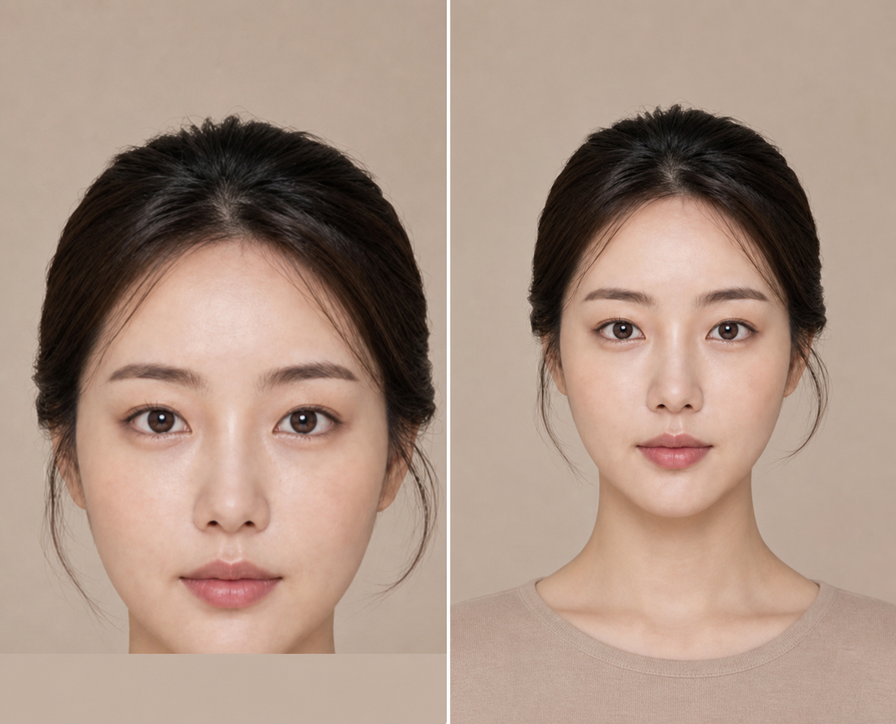
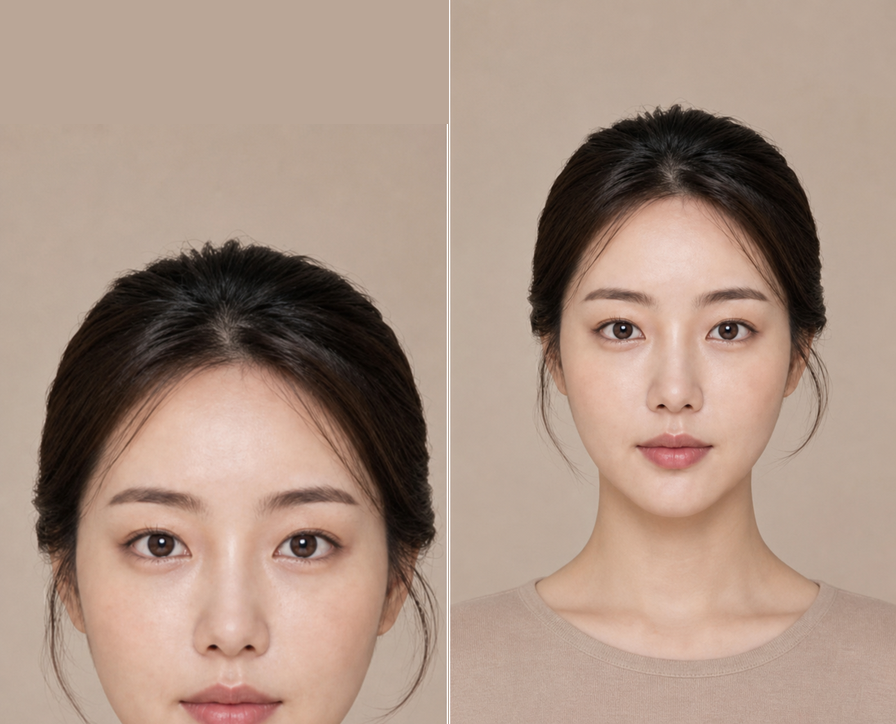
feat(face-analysis): 인트로 몰입형 리디자인 및 히어로·가이드 이미지 개선
- 인트로: 촬영 체크리스트 제거 → 풀블리드 히어로 + `얼굴 분석 시작`/`촬영 가이드` 버튼
- 촬영 튜토리얼을 필수 단계에서 선택(촬영 가이드)으로 강등, 카메라 실시간 코칭 중심 흐름
- 히어로 이미지: 얼굴 중앙 정렬 구도 + 페이스 메시(랜드마크) 오버레이로 얼굴 분석 무드
- 촬영 가이드 "턱끝까지" 예시: 하단 블록 제거, 입술 라인에서 턱만 자연스럽게 잘리는 구도
- 촬영 소요시간 안내 문구 10초 → 40초
- 관련 라우트/테스트 업데이트

Changed region(s): [[0.0312, 0.1519, 0.5, 1.0], [0.4375, 0.942, 0.4688, 0.9724]]

diff --git a/apps/mobile/src/features/face-analysis/screens/FaceAnalysisIntroScreen.tsx b/apps/mobile/src/features/face-analysis/screens/FaceAnalysisIntroScreen.tsx
@@ -1,6 +1,7 @@
 import React from 'react';
 import {ImageBackground, Pressable, StyleSheet} from 'react-native';
-import {Text, View, XStack, YStack} from 'tamagui';
+import {LinearGradient} from 'expo-linear-gradient';
+import {Text, YStack} from 'tamagui';
 
 import {colors, radius, shadows, spacing, typography} from '../../../shared/theme';
 import {AppScreen} from '../../../shared/ui';
@@ -11,15 +12,17 @@ import {
 import {FACE_ANALYSIS_CAPTURE_CHECKLIST} from '../services/faceAnalysisCaptureChecklist';
 
 type FaceAnalysisIntroScreenProps = {
-  onStartAnalysisGuide?: () => void;
+  onStartAnalysis?: () => void;
+  onOpenCaptureTips?: () => void;
 };
 
 const faceAnalysisHeroImage = require('../../../assets/images/face-analysis-intro.png');
 
 const faceAnalysisIntroContent = {
-  title: '맞춤 스타일링을 위한\n얼굴 분석',
+  title: '맞춤 스타일링 얼굴 분석',
   captureDuration: FACE_ANALYSIS_CAPTURE_DURATION_COPY,
-  primaryActionLabel: '촬영 가이드 보기',
+  primaryActionLabel: '얼굴 분석 시작',
+  captureGuideLabel: '촬영 가이드',
 } as const;
 
 
@@ -36,7 +39,8 @@ export function getFaceAnalysisCapturePlanTitles() {
 }
 
 export function FaceAnalysisIntroScreen({
-  onStartAnalysisGuide,
+  onStartAnalysis,
+  onOpenCaptureTips,
 }: FaceAnalysisIntroScreenProps) {
   return (
     <AppScreen
@@ -46,193 +50,143 @@ export function FaceAnalysisIntroScreen({
       topPadding="belowShellHeader">
       <ImageBackground
         imageStyle={styles.heroImage}
-        resizeMode="contain"
+        resizeMode="cover"
         source={faceAnalysisHeroImage}
         style={styles.hero}>
-        <YStack style={styles.heroCopy}>
-          <Text style={styles.title}>{faceAnalysisIntroContent.title}</Text>
-        </YStack>
+        <LinearGradient
+          colors={['rgba(17, 17, 17, 0)', 'rgba(17, 17, 17, 0.45)', 'rgba(17, 17, 17, 0.9)']}
+          locations={[0, 0.46, 1]}
+          pointerEvents="none"
+          style={styles.heroScrim}
+        />
+        <YStack style={styles.heroContent}>
+          <Text
+            adjustsFontSizeToFit
+            minimumFontScale={0.7}
+            numberOfLines={1}
+            style={styles.title}>
+            {faceAnalysisIntroContent.title}
+          </Text>
+          <Text
+            adjustsFontSizeToFit
+            minimumFontScale={0.5}
+            numberOfLines={1}
+            style={styles.heroCaption}>
+            <Text style={styles.heroCaptionStrong}>1회 촬영</Text>
+            {`   ·   ${faceAnalysisIntroContent.captureDuration}`}
+          </Text>
 
-        <XStack style={styles.heroMeta}>
-          <Text style={styles.heroMetaLabel}>1회 촬영</Text>
-          <View style={styles.heroMetaDivider} />
-          <Text style={styles.heroMetaValue}>{faceAnalysisIntroContent.captureDuration}</Text>
-        </XStack>
+          <Pressable
+            accessibilityLabel={faceAnalysisIntroContent.primaryActionLabel}
+            accessibilityRole="button"
+            onPress={onStartAnalysis}
+            style={({pressed}) => [styles.primaryButton, pressed && styles.pressed]}>
+            <Text style={styles.primaryButtonText}>
+              {faceAnalysisIntroContent.primaryActionLabel}
+            </Text>
+          </Pressable>
+
+          <Pressable
+            accessibilityLabel={faceAnalysisIntroContent.captureGuideLabel}
+            accessibilityRole="button"
+            onPress={onOpenCaptureTips}
+            style={({pressed}) => [styles.secondaryButton, pressed && styles.pressed]}>
+            <Text style={styles.secondaryButtonText}>
+              {faceAnalysisIntroContent.captureGuideLabel}
+            </Text>
+          </Pressable>
+        </YStack>
       </ImageBackground>
-
-      <YStack style={styles.content}>
-        <YStack style={styles.checkHeader}>
-          <Text style={styles.sectionEyebrow}>READY</Text>
-          <Text style={styles.sectionTitle}>촬영 전 체크리스트</Text>
-        </YStack>
-
-        <YStack style={styles.checkList}>
-          {FACE_ANALYSIS_CAPTURE_CHECKLIST.map((step, index) => (
-            <XStack key={step.id} style={styles.checkRow}>
-              <Text style={styles.checkIndex}>{String(index + 1).padStart(2, '0')}</Text>
-              <YStack style={styles.checkCopy}>
-                <Text style={styles.checkTitle}>{step.title}</Text>
-                <Text style={styles.checkDescription}>{step.description}</Text>
-              </YStack>
-            </XStack>
-          ))}
-        </YStack>
-      </YStack>
-
-      <View style={styles.footerSpacer} />
-
-      <Pressable
-        accessibilityLabel={faceAnalysisIntroContent.primaryActionLabel}
-        accessibilityRole="button"
-        onPress={onStartAnalysisGuide}
-        style={({pressed}) => [styles.primaryButton, pressed && styles.pressed]}>
-        <Text style={styles.primaryButtonText}>
-          {faceAnalysisIntroContent.primaryActionLabel}
-        </Text>
-      </Pressable>
     </AppScreen>
   );
 }
 
 const styles = StyleSheet.create({
-  checkCopy: {
+  hero: {
+    borderRadius: 28,
     flex: 1,
-    gap: 4,
-    minWidth: 0,
+    justifyContent: 'flex-end',
+    minHeight: 480,
+    overflow: 'hidden',
   },
-  checkDescription: {
-    color: colors.textSecondary,
+  heroCaption: {
+    color: 'rgba(255, 255, 255, 0.82)',
     fontFamily: typography.fontFamily.medium,
     fontSize: typography.fontSize.sm,
     fontWeight: typography.fontWeight.medium,
     lineHeight: typography.lineHeight.sm,
   },
-  checkHeader: {
-    gap: spacing.xs,
-  },
-  checkIndex: {
-    color: colors.textTertiary,
+  heroCaptionStrong: {
+    color: colors.white,
     fontFamily: typography.fontFamily.bold,
-    fontSize: typography.fontSize.sm,
     fontWeight: typography.fontWeight.bold,
-    letterSpacing: 0.8,
-    lineHeight: typography.lineHeight.sm,
-    width: 40,
   },
-  checkList: {
-    borderTopColor: colors.border,
-    borderTopWidth: 1,
-  },
-  checkRow: {
-    alignItems: 'flex-start',
-    borderBottomColor: colors.border,
-    borderBottomWidth: 1,
-    gap: spacing.md,
-    paddingVertical: spacing.lg,
-  },
-  checkTitle: {
-    color: colors.textPrimary,
-    fontFamily: typography.fontFamily.bold,
-    fontSize: typography.fontSize.lg,
-    fontWeight: typography.fontWeight.bold,
-    lineHeight: typography.lineHeight.lg,
-  },
-  content: {
-    gap: spacing.lg,
-    paddingHorizontal: spacing.screenX,
-  },
-  footerSpacer: {
-    flex: 1,
-  },
-  hero: {
-    borderRadius: 28,
-    height: 480,
-    justifyContent: 'space-between',
-    overflow: 'hidden',
-    paddingBottom: spacing.lg,
-    paddingHorizontal: spacing.screenX,
-    paddingTop: spacing.xl,
-  },
-  heroCopy: {
+  heroContent: {
     gap: spacing.sm,
+    paddingBottom: spacing.xl,
+    paddingHorizontal: spacing.screenX,
   },
   heroImage: {
     borderRadius: 28,
   },
-  heroMeta: {
-    alignItems: 'center',
-    alignSelf: 'flex-start',
-    backgroundColor: 'rgba(255, 255, 255, 0.78)',
-    borderColor: 'rgba(255, 255, 255, 0.92)',
-    borderRadius: radius.pill,
-    borderWidth: 1,
-    gap: spacing.sm,
-    paddingHorizontal: spacing.md,
-    paddingVertical: spacing.sm,
-  },
-  heroMetaDivider: {
-    backgroundColor: colors.border,
-    height: 14,
-    width: 1,
-  },
-  heroMetaLabel: {
-    color: colors.textPrimary,
-    fontFamily: typography.fontFamily.bold,
-    fontSize: typography.fontSize.xs,
-    fontWeight: typography.fontWeight.bold,
-    lineHeight: typography.lineHeight.xs,
-  },
-  heroMetaValue: {
-    color: colors.textSecondary,
-    fontFamily: typography.fontFamily.medium,
-    fontSize: typography.fontSize.xs,
-    fontWeight: typography.fontWeight.medium,
-    lineHeight: typography.lineHeight.xs,
+  heroScrim: {
+    bottom: 0,
+    left: 0,
+    position: 'absolute',
+    right: 0,
+    top: 0,
   },
   pressed: {
-    opacity: 0.78,
+    opacity: 0.85,
     transform: [{scale: 0.99}],
   },
   primaryButton: {
     alignItems: 'center',
-    backgroundColor: colors.blackSurface,
+    backgroundColor: colors.white,
     borderRadius: radius.pill,
     justifyContent: 'center',
-    minHeight: 58,
+    marginTop: spacing.md,
+    minHeight: 56,
     paddingHorizontal: spacing.xl,
     shadowColor: shadows.soft.shadowColor,
     shadowOffset: shadows.soft.shadowOffset,
-    shadowOpacity: 0.12,
+    shadowOpacity: 0.18,
     shadowRadius: shadows.soft.shadowRadius,
   },
   primaryButtonText: {
+    color: colors.blackSurface,
+    fontFamily: typography.fontFamily.bold,
+    fontSize: typography.fontSize.md,
+    fontWeight: typography.fontWeight.bold,
+    lineHeight: typography.lineHeight.md,
+  },
+  secondaryButton: {
+    alignItems: 'center',
+    backgroundColor: 'rgba(255, 255, 255, 0.12)',
+    borderColor: 'rgba(255, 255, 255, 0.75)',
+    borderRadius: radius.pill,
+    borderWidth: 1.5,
+    justifyContent: 'center',
+    marginTop: spacing.sm,
+    minHeight: 56,
+    paddingHorizontal: spacing.xl,
+  },
+  secondaryButtonText: {
     color: colors.white,
     fontFamily: typography.fontFamily.bold,
     fontSize: typography.fontSize.md,
     fontWeight: typography.fontWeight.bold,
     lineHeight: typography.lineHeight.md,
   },
-  sectionEyebrow: {
-    color: colors.textTertiary,
-    fontFamily: typography.fontFamily.bold,
-    fontSize: typography.fontSize.xs,
-    fontWeight: typography.fontWeight.bold,
-    letterSpacing: 1,
-    lineHeight: typography.lineHeight.xs,
-  },
-  sectionTitle: {
-    color: colors.textPrimary,
-    fontFamily: typography.fontFamily.bold,
-    fontSize: typography.fontSize.xl,
-    fontWeight: typography.fontWeight.bold,
-    lineHeight: typography.lineHeight.xl,
-  },
   title: {
-    color: colors.textPrimary,
+    color: colors.white,
     fontFamily: typography.fontFamily.bold,
     fontSize: 34,
     fontWeight: typography.fontWeight.bold,
     letterSpacing: -0.8,
     lineHeight: 40,
+    textShadowColor: 'rgba(0, 0, 0, 0.3)',
+    textShadowOffset: {width: 0, height: 1},
+    textShadowRadius: 12,
   },
 });

diff --git a/apps/mobile/src/features/face-analysis/screens/FaceAnalysisIntroScreen.test.tsx b/apps/mobile/src/features/face-analysis/screens/FaceAnalysisIntroScreen.test.tsx
@@ -14,11 +14,13 @@ function expectEqual<T>(actual: T, expected: T, label: string) {
 }
 
 const content = getFaceAnalysisIntroContent();
-const introTitle: '맞춤 스타일링을 위한\n얼굴 분석' = content.title;
-const primaryAction: '촬영 가이드 보기' = content.primaryActionLabel;
+const introTitle: '맞춤 스타일링 얼굴 분석' = content.title;
+const primaryAction: '얼굴 분석 시작' = content.primaryActionLabel;
+const captureGuide: '촬영 가이드' = content.captureGuideLabel;
 
-expectEqual(introTitle, '맞춤 스타일링을 위한\n얼굴 분석', 'face analysis intro title');
-expectEqual(primaryAction, '촬영 가이드 보기', 'face analysis intro primary action');
+expectEqual(introTitle, '맞춤 스타일링 얼굴 분석', 'face analysis intro title');
+expectEqual(primaryAction, '얼굴 분석 시작', 'face analysis intro primary action');
+expectEqual(captureGuide, '촬영 가이드', 'face analysis intro capture guide label');
 expectEqual(
   getFaceAnalysisCapturePlanTitles().join(','),
   '통합 얼굴 촬영',
@@ -26,7 +28,7 @@ expectEqual(
 );
 expectEqual(
   content.captureDuration,
-  '보통 10초 내외이며, 얼굴을 맞추는 시간에 따라 더 걸릴 수 있어요.',
+  '보통 40초 내외이며, 얼굴을 맞추는 시간에 따라 더 걸릴 수 있어요.',
   'face analysis capture duration',
 );
 expectEqual(
@@ -34,4 +36,7 @@ expectEqual(
   '밝고 고른 빛에서,이마가 보이게,양쪽 귀가 보이게,액세서리 없이,표정은 편안하게,턱끝까지 화면 안에',
   'face analysis intro step titles',
 );
-<FaceAnalysisIntroScreen onStartAnalysisGuide={() => undefined} />;
+<FaceAnalysisIntroScreen
+  onOpenCaptureTips={() => undefined}
+  onStartAnalysis={() => undefined}
+/>;

diff --git a/apps/mobile/src/app/navigation/routes/faceAnalysisIntroRoute.tsx b/apps/mobile/src/app/navigation/routes/faceAnalysisIntroRoute.tsx
@@ -28,7 +28,10 @@ export function FaceAnalysisIntroRouteScreen({
       <DetailRouteChrome
         routeName="FaceAnalysisIntro"
         onBack={() => goBackToPreviousOrMainTab(navigation, 'HomeTab')}>
-        <FaceAnalysisIntroScreen onStartAnalysisGuide={openAnalysisGuide} />
+        <FaceAnalysisIntroScreen
+          onOpenCaptureTips={openAnalysisGuide}
+          onStartAnalysis={startFaceCapture}
+        />
       </DetailRouteChrome>
       <FaceCaptureTutorialSheet
         isVisible={isGuideVisible}

diff --git a/apps/mobile/src/features/face-analysis/services/faceAnalysisCaptureGuidance.ts b/apps/mobile/src/features/face-analysis/services/faceAnalysisCaptureGuidance.ts
@@ -10,7 +10,7 @@ export const FACE_ANALYSIS_CAPTURE_PLAN = [
 ] as const;
 
 export const FACE_ANALYSIS_CAPTURE_DURATION_COPY =
-  '보통 10초 내외이며, 얼굴을 맞추는 시간에 따라 더 걸릴 수 있어요.' as const;
+  '보통 40초 내외이며, 얼굴을 맞추는 시간에 따라 더 걸릴 수 있어요.' as const;
 
 export const FACE_3D_PREFLIGHT_COPY = {
   action: '준비됐어요',
